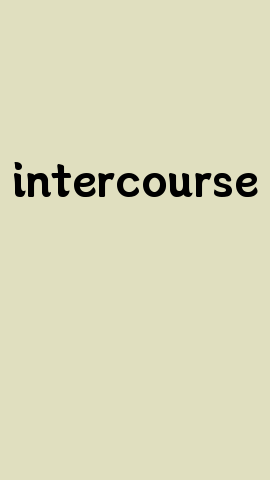
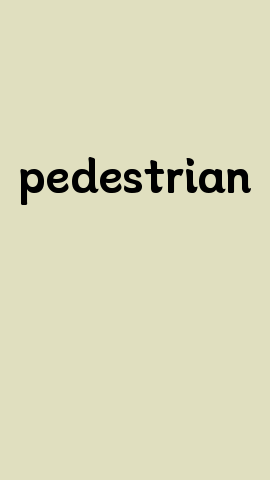
不做定时了，有道翻译不反悔音标了。后续尝试自己维护一个数据库

Changed region(s): [[0.0296, 0.3125, 0.9778, 0.4375]]

diff --git a/main.py b/main.py
@@ -43,21 +43,22 @@ def generate_img(request: Request, word: str):
     return {"img_link":str(request.url_for("static", path="random_pic.png"))}
 
 
-@app.post("/workflow/everyday_word")
+@app.get("/workflow/everyday_word")
 async def workflow_everyday_word():
     " 生成CET4 随机单词和图片 "
-    cet4_img = "static/cet4.png"
-    cet4_word = random_word()
-    cet4_info_text = get_material(text=cet4_word, image_name=cet4_img)
-    feishu_client.send_img_feishu(filepath=cet4_img)
-    feishu_client.send_msg_feishu(text=cet4_info_text)
+    # cet4_img = "static/cet4.png"
+    # cet4_word = random_word()
+    # print("cet4_word: ", cet4_word)
+    # cet4_info_text = get_material(text=cet4_word, image_name=cet4_img)
+    # feishu_client.send_img_feishu(filepath=cet4_img)
+    # feishu_client.send_msg_feishu(text=cet4_info_text)
 
     " 生成CET6 随机单词和图片"
     cet6_img = "static/cet6.png"
     cet6_word = random_word(wordfile="CET6.txt")
     cet6_info_text = get_material(text=cet6_word, image_name=cet6_img)
 
-    return {"cet4_info_text": cet4_info_text, "cet6_info_text":cet6_info_text}
+    return {"cet4_info_text": "cet4_info_text", "cet6_info_text":cet6_info_text}
     
 @app.post("/feishu_callback")
 async def feishu_callback(reqest: Request):

diff --git a/utools.py b/utools.py
@@ -17,7 +17,9 @@ def random_word(wordfile: str="CET4.txt"):
 def get_word_info(text: str):
     yd = YouDao(app_key=os.getenv("YOUDAO_APP_KEY"), app_secret=os.getenv("YOUDAO_APP_SECRET"))
     res = yd.connect(q=text)
-
+    print("翻译结果：", res)
+    if not res["isWord"]:
+        return None
     explains = "\n".join(res["basic"]["explains"])
 
     info_text = f"{text}\n中文翻译：{res['translation']}\n解释：{explains}\n发音：{res['basic']['phonetic']}\n美式发音：{res['basic']['us-phonetic']}\n"
@@ -30,5 +32,7 @@ def get_img(text: str, image_name:str):
 def get_material(text: str, image_name="static/cet4.png"):
     "获取随机的单词和图片"
     info_text = get_word_info(text=text)
+    if info_text == None:
+        info_text = get_word_info(text=text)
     get_img(text=text, image_name=image_name)
     return info_text
